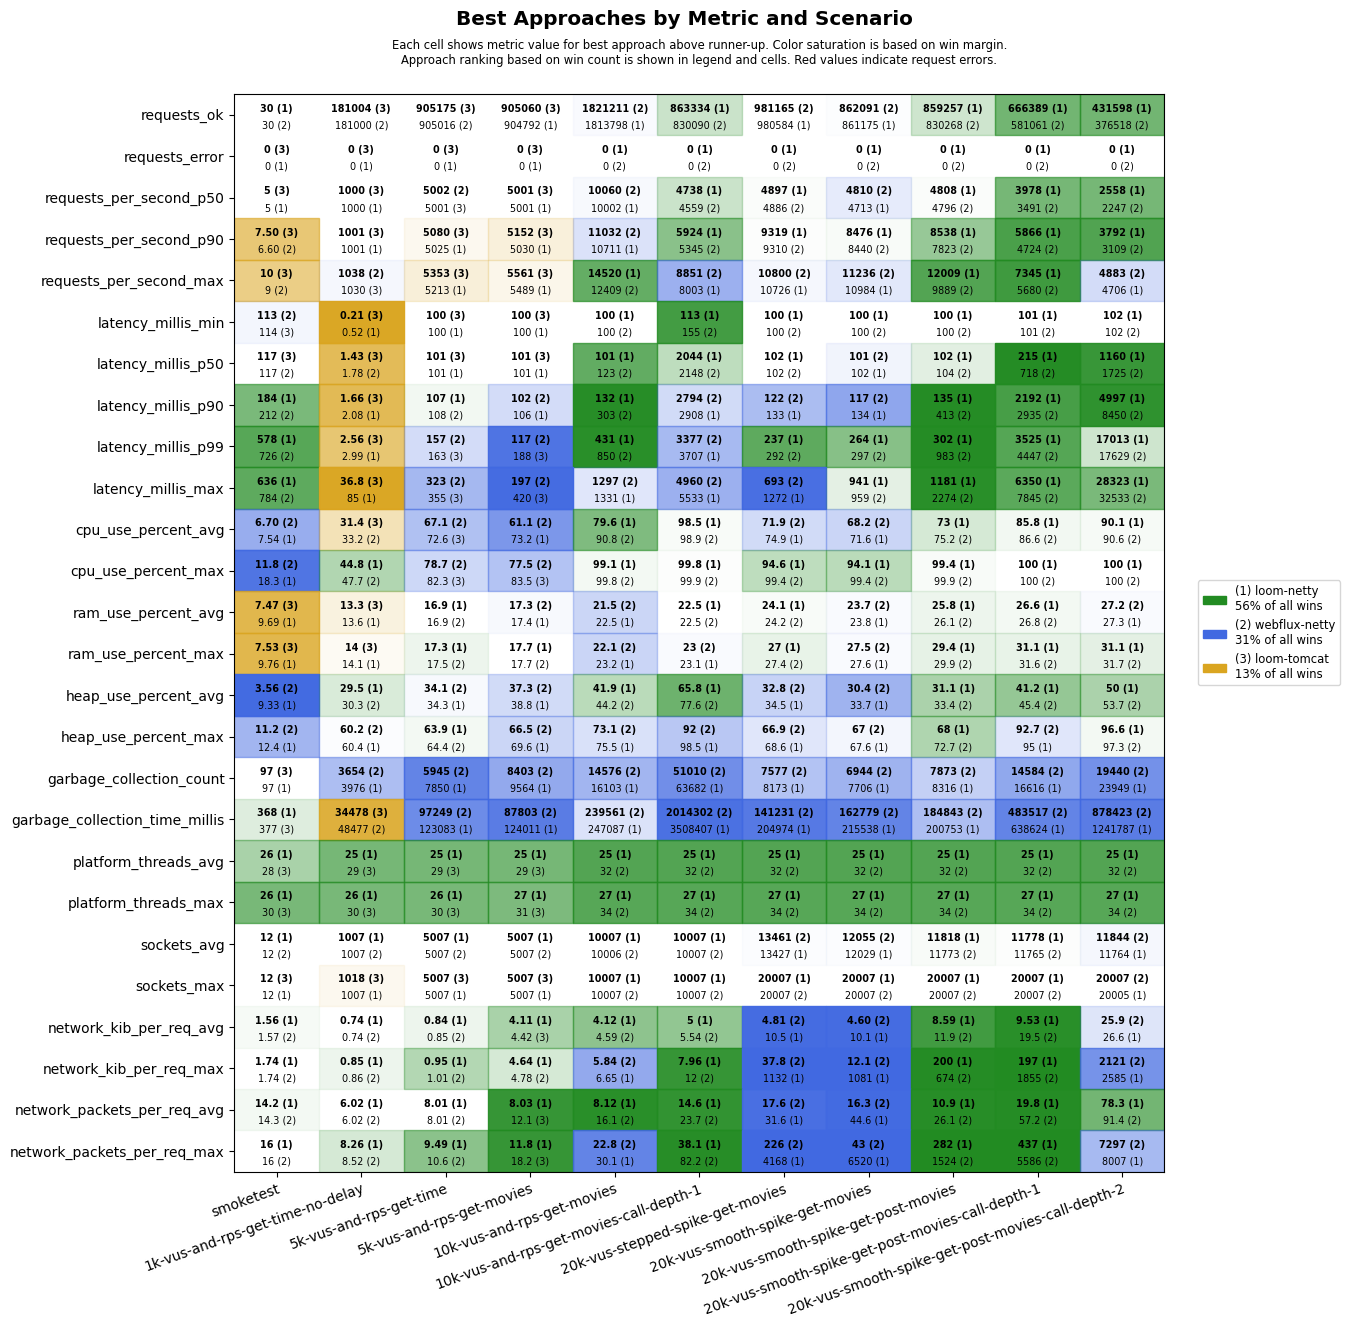
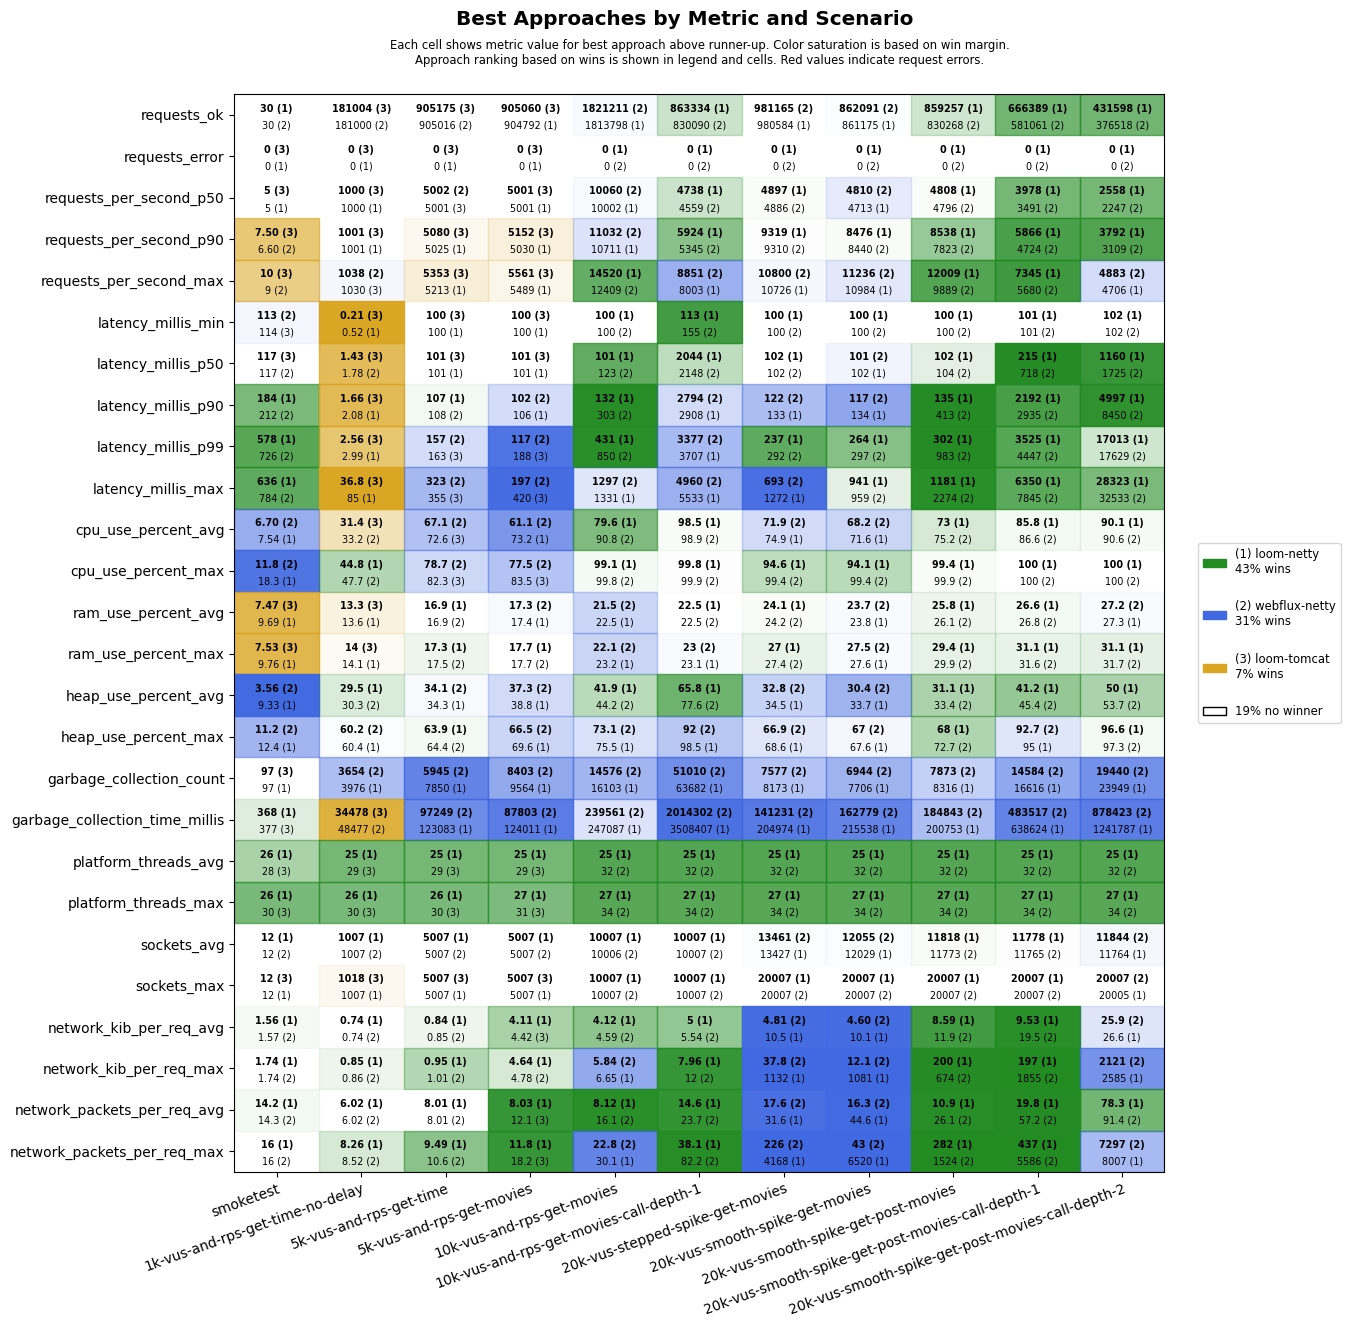
Add "no winner" to legend for all tests where there was a draw between winning and runner-up approaches. Refreshed results PNG. Removed irrelevant scenarios from scenarios-postgres.csv.

diff --git a/src/main/python/results_chart.py b/src/main/python/results_chart.py
@@ -83,6 +83,8 @@ class CSVRenderer:
         self.color_name_by_approach.update({approach: self.colors[i % len(self.colors)] for i, approach in enumerate(other_approaches)})
 
         self.approach_wins = {approach: 0 for approach in self.approaches}
+        self.draw_count = 0
+        self.contest_count = 0
 
     def read_csv(self) -> Tuple[List[str], List[Dict[str, str]]]:
         try:
@@ -100,7 +102,7 @@ class CSVRenderer:
             print(f"Error: {ve}")
             sys.exit(1)
 
-    def sort_approaches(self, metric: str, scenario: str) -> List[str]:
+    def sort_approaches(self, metric: str, scenario: str) -> Tuple[List[str], Dict[str, float]]:
         result_by_approach = {row[APPROACH]: float(row[metric]) for row in self.csv_rows if row[SCENARIO] == scenario}
         errors_by_approach = {row[APPROACH]: int(row.get("requests_error", 0) or 0) > 0 for row in self.csv_rows if row[SCENARIO] == scenario}
         more_is_better = self.more_is_better_by_metric_name.get(metric_prefix(metric), False) if "error" not in metric else False
@@ -110,14 +112,20 @@ class CSVRenderer:
             [approach for approach in result_by_approach.keys() if approach in self.approaches],
             key=lambda x: (errors_by_approach[x], -result_by_approach[x] if more_is_better else result_by_approach[x])
         )
-        return ranked_approaches
+        return ranked_approaches, result_by_approach
 
     def calculate_wins(self):
         for metric in self.metrics:
             for scenario in self.scenarios:
-                ranked_approaches = self.sort_approaches(metric, scenario)
+                ranked_approaches, result_by_approach = self.sort_approaches(metric, scenario)
                 if ranked_approaches:
-                    self.approach_wins[ranked_approaches[0]] += 1
+                    self.contest_count += 1
+                    winning_approach = ranked_approaches[0]
+                    runner_up_approach = ranked_approaches[min(len(ranked_approaches) - 1, 1)]
+                    if result_by_approach[winning_approach] == result_by_approach[runner_up_approach]:
+                        self.draw_count += 1
+                    else:
+                        self.approach_wins[winning_approach] += 1
 
     def get_color_rows(self) -> List[List[Color]]:
         color_rows = []
@@ -127,7 +135,7 @@ class CSVRenderer:
                 result_by_approach = {row[APPROACH]: float(row[metric]) for row in self.csv_rows if row[SCENARIO] == scenario}
                 errors_by_approach = {row[APPROACH]: int(row.get("requests_error", 0)) > 0 for row in self.csv_rows if row[SCENARIO] == scenario}
 
-                ranked_approaches = self.sort_approaches(metric, scenario)
+                ranked_approaches = self.sort_approaches(metric, scenario)[0]  # only need the ranked approaches here
                 ranked_results = [Result(approach, result_by_approach[approach], errors_by_approach[approach]) for approach in ranked_approaches]
 
                 winning_approach = ranked_approaches[0]
@@ -141,14 +149,13 @@ class CSVRenderer:
         return color_rows
 
     def _win_percentages(self, ranked_approaches):
-        percentages = {approach: (self.approach_wins[approach] / sum(self.approach_wins.values())) * 100 if sum(self.approach_wins.values()) != 0 else 0 for approach in
-                       ranked_approaches}
+        percentages = {approach: (self.approach_wins[approach] / self.contest_count) * 100 if self.contest_count != 0 else 0 for approach in ranked_approaches}
         rounded_percentages = {approach: round(percentage) for approach, percentage in percentages.items()}
-        total_rounded = sum(rounded_percentages.values())
-        if total_rounded != 100:
-            remaining = 100 - total_rounded
-            max_approach = max(percentages, key=percentages.get)
-            rounded_percentages[max_approach] += remaining
+
+        draw_percentage = (self.draw_count / self.contest_count) * 100 if self.contest_count != 0 else 0
+        if draw_percentage > 0:
+            rounded_percentages["draw"] = round(draw_percentage)
+
         return rounded_percentages
 
     def render_png(self):
@@ -190,15 +197,26 @@ class CSVRenderer:
         ax.set_yticklabels(self.metrics)
 
         legend_handles = []
-        for approach, rounded_percentage in self._win_percentages(ranked_approaches).items():
-            legend_text = f"({approach_ranks[approach]}) {approach}\n{rounded_percentage}% of all wins"
-            legend_handles.append(plt.Rectangle((0, 0), 1, 2, color=self.color_name_by_approach[approach], label=legend_text))
+        win_percentages = self._win_percentages(ranked_approaches)
+
+        for index, (approach, rounded_percentage) in enumerate(win_percentages.items()):
+            if approach == "draw":
+                legend_text = f"{rounded_percentage:.0f}% no winner"
+                legend_handles.append(plt.Rectangle((0, 0), 1, 2, facecolor='white', edgecolor='black', linewidth=1, label=legend_text))
+            else:
+                legend_text = f"({approach_ranks[approach]}) {approach}\n{rounded_percentage:.0f}% wins"
+                legend_handles.append(plt.Rectangle((0, 0), 1, 2, color=self.color_name_by_approach[approach], label=legend_text))
+
+            # Add blank legend entry between consecutive entries
+            if index < len(win_percentages) - 1:
+                legend_handles.append(plt.Rectangle((0, 0), 1, 0.5, color='white', label=''))
+
         ax.legend(handles=legend_handles, loc='center left', bbox_to_anchor=(1.03, 0.5), fontsize='small')
 
         plt.suptitle('Best Approaches by Metric and Scenario', weight='bold', y=0.94, fontsize='x-large')
         plt.title(
             'Each cell shows metric value for best approach above runner-up. Color saturation is based on win margin.\n'
-            'Approach ranking based on win count is shown in legend and cells. Red values indicate request errors.',
+            'Approach ranking based on wins is shown in legend and cells. Red values indicate request errors.',
             y=1.02, size='small')
         plt.savefig(self.output_file, bbox_inches='tight')
         plt.close()
